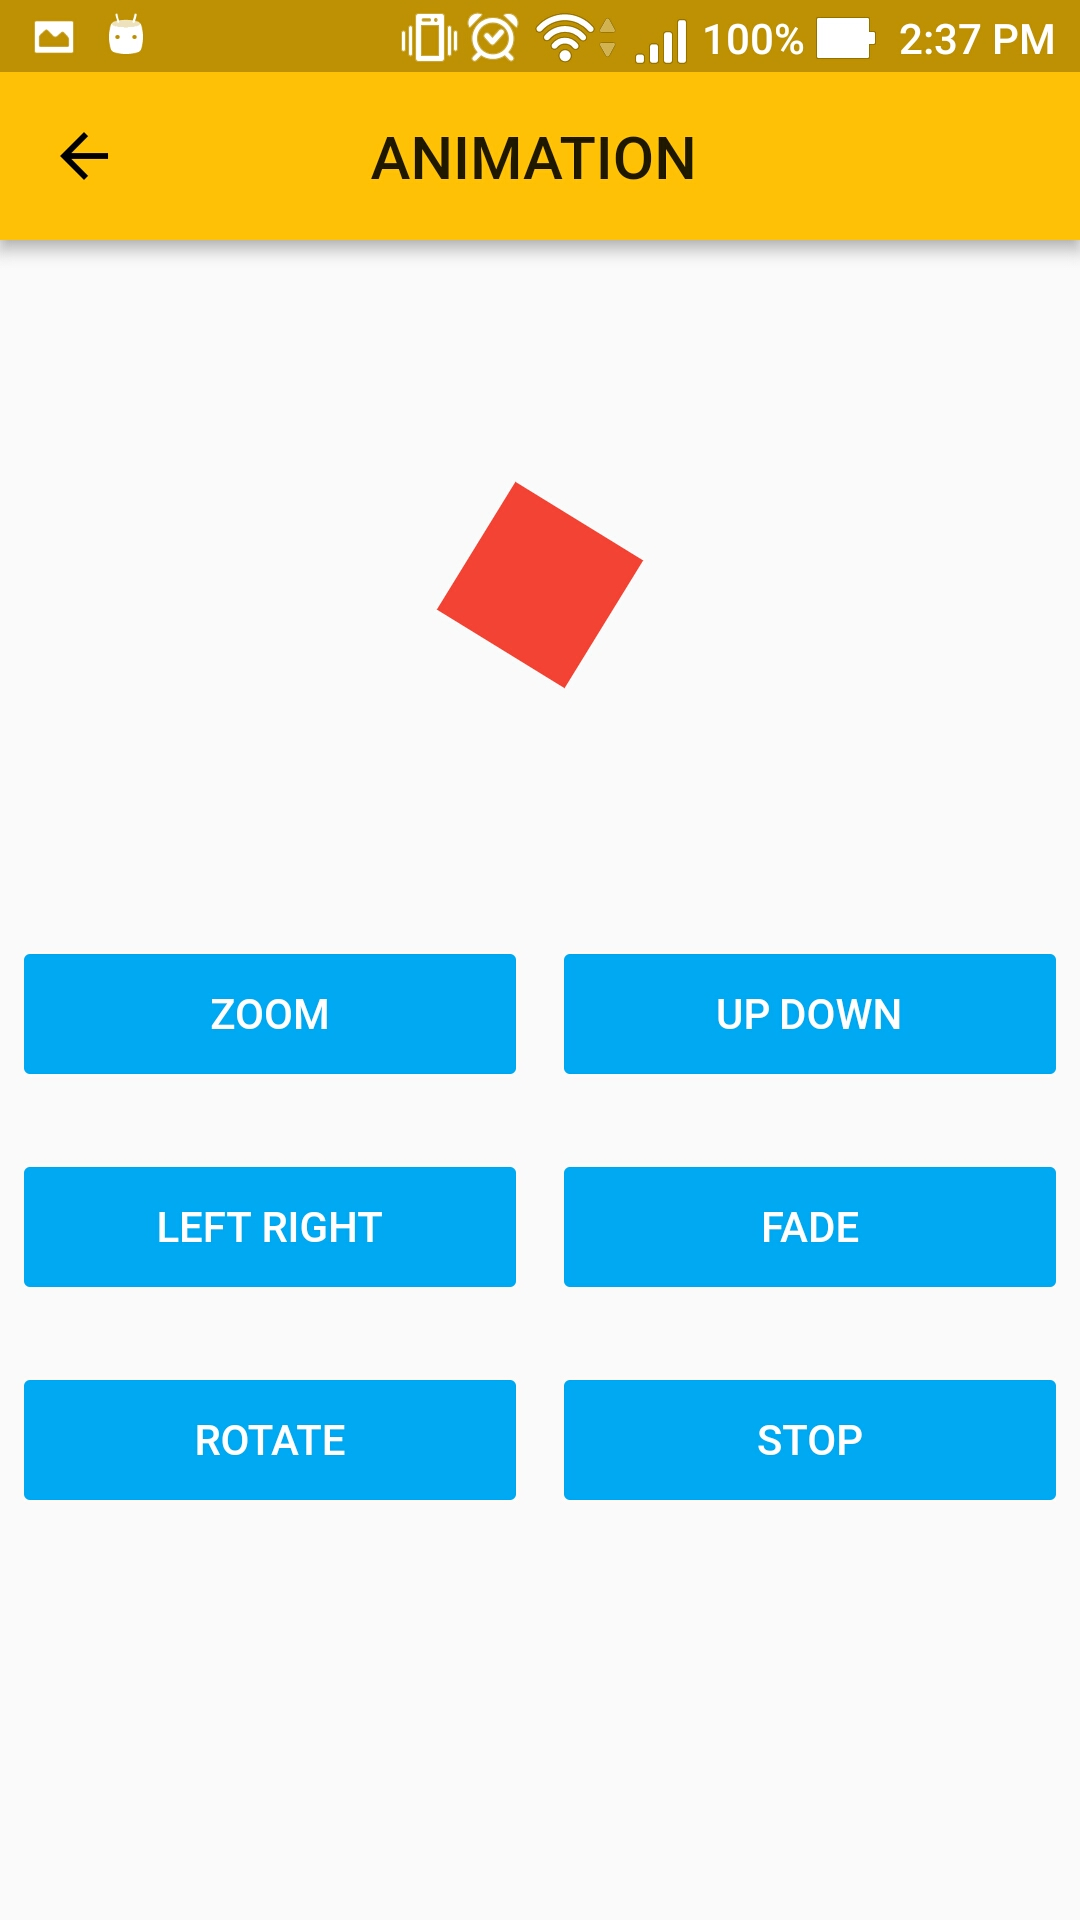
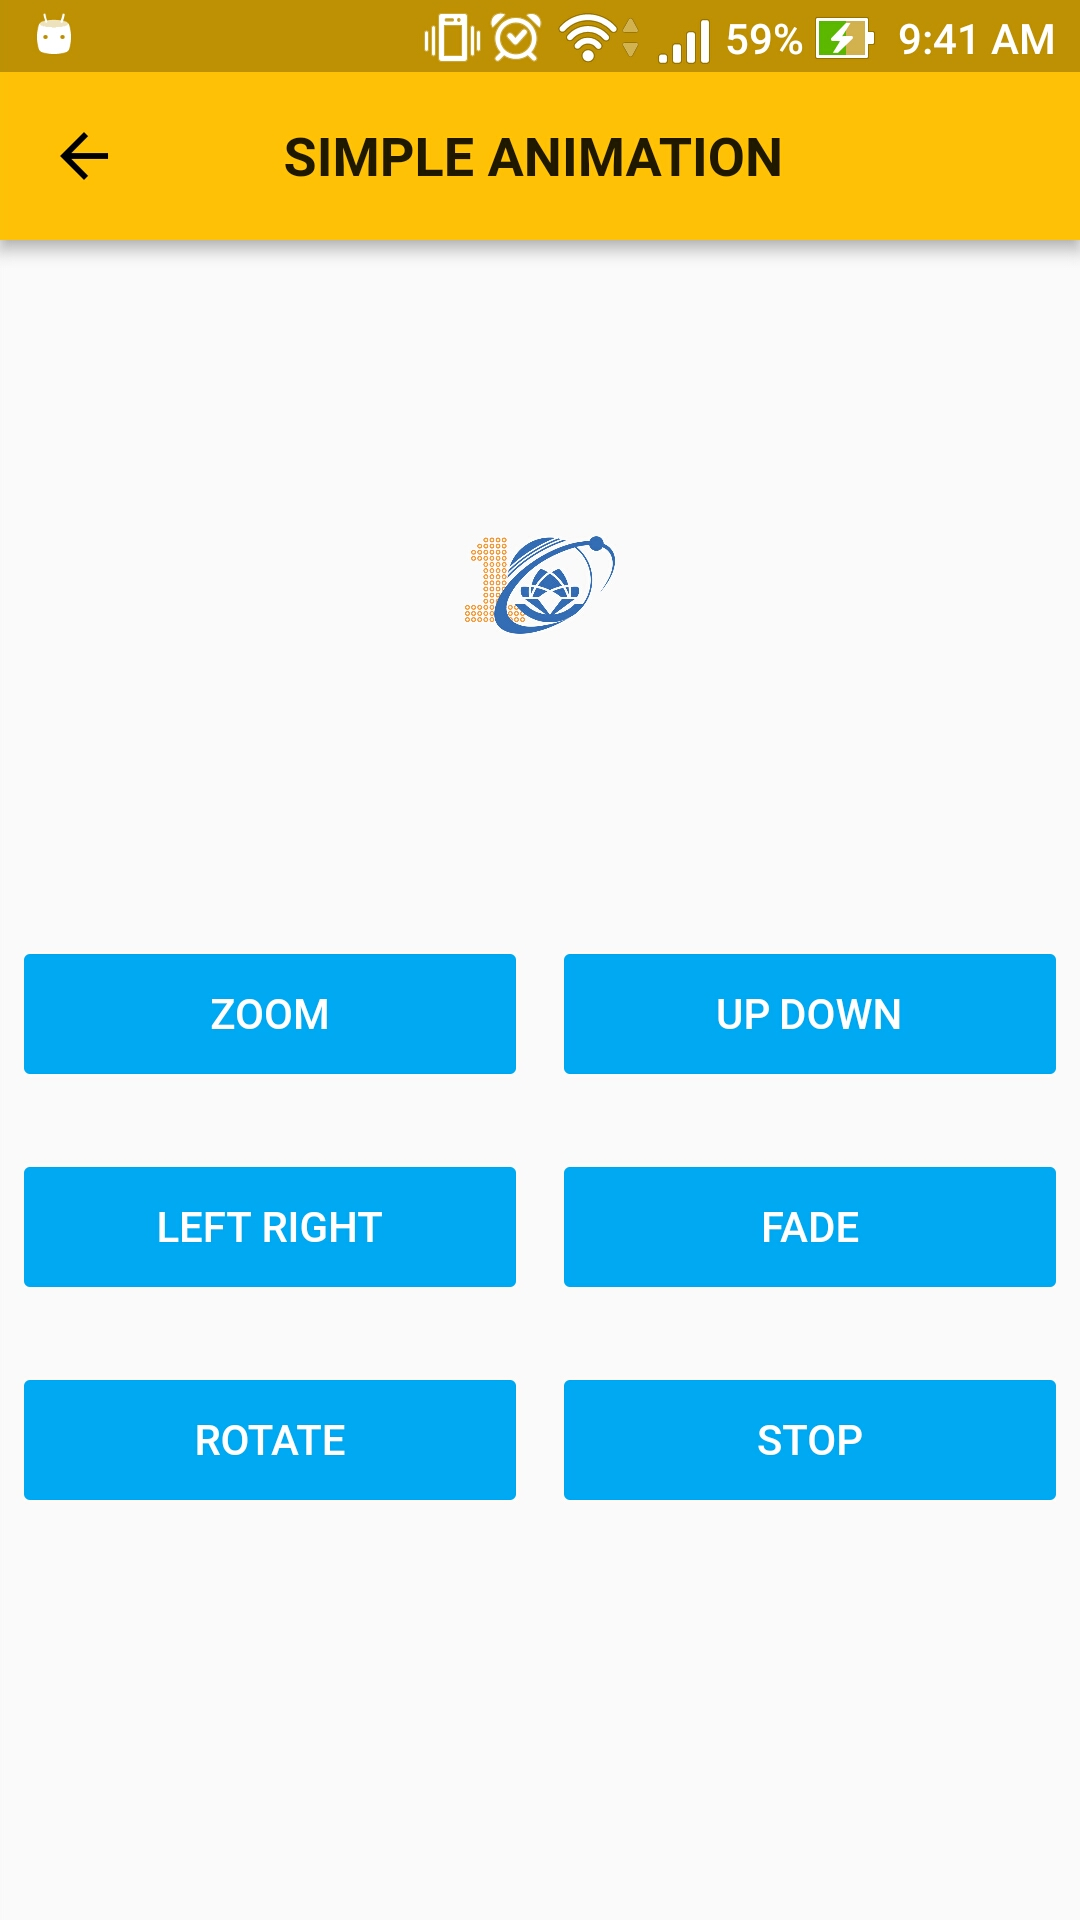
update

diff --git a/lib/main.dart b/lib/main.dart
@@ -7,7 +7,7 @@ import 'package:flutter/material.dart';
 import 'detail_info.dart';
 import 'english_word_list.dart';
 import 'chat.dart';
-import 'animation.dart';
+import 'simple_animation.dart';
 
 void main() => runApp(new MainApp());
 
@@ -37,15 +37,15 @@ class MainScreen extends StatelessWidget {
       child: new Center(
         child: new Column(
           children: <Widget>[
-            _buildButton(context, 'Detail info screen', new DetailInfo()),
+            _buildButton(context, 'Restaurant animation screen', new RestaurantAnimation()),
+            _buildButton(context, 'Simple animation screen', new SimpleAnimationScreen()),
             _buildButton(context, 'Edit profile screen', new EditProfile()),
-            _buildButton(context, 'Fetch api screen', new FetchApi()),
-            _buildButton(context, 'English word list screen', new EnglishWordList()),
-            _buildButton(context, 'Animation screen', new AnimationScreen()),
-            _buildButton(context, 'Chat screen', new Chat()),
             _buildButton(context, 'Music player screen', new MusicPlayer()),
             _buildButton(context, 'Medium clap screen', new MediumClap()),
-            _buildButton(context, 'Restaurant animation screen', new RestaurantAnimation())
+            _buildButton(context, 'Fetch api screen', new FetchApi()),
+            _buildButton(context, 'Detail info screen', new DetailInfo()),
+            _buildButton(context, 'English word list screen', new EnglishWordList()),
+            _buildButton(context, 'Chat screen', new Chat()),
           ],
         ),
       ),

diff --git a/lib/simple_animation.dart b/lib/simple_animation.dart
@@ -1,13 +1,13 @@
 import 'package:flutter/animation.dart';
 import 'package:flutter/material.dart';
 
-class AnimationScreen extends StatelessWidget {
+class SimpleAnimationScreen extends StatelessWidget {
   @override
   Widget build(BuildContext context) {
     return new Scaffold(
       appBar: new AppBar(
           title: new Text(
-            'ANIMATION',
+            'SIMPLE ANIMATION',
             style: new TextStyle(fontSize: 18.0, fontWeight: FontWeight.bold),
           ),
           centerTitle: true),
@@ -81,7 +81,6 @@ class _LogoAppState extends State<LogoApp> with SingleTickerProviderStateMixin {
         children: <Widget>[
           new Container(height: 15.0),
           new Container(
-//            color: Colors.black,
             alignment: Alignment.center,
             width: 200.0,
             height: 200.0,
@@ -92,7 +91,9 @@ class _LogoAppState extends State<LogoApp> with SingleTickerProviderStateMixin {
                   child: new Opacity(
                     opacity: currentAnimation == 3 ? fadeAnim.value : 1.0,
                     child: new Container(
-                        color: Colors.red,
+                        child: new Image.asset(
+                          'images/logo_uit.png',
+                        ),
                         width: currentAnimation == 0 ? sizeAnim.value : 50.0,
                         height: currentAnimation == 0 ? sizeAnim.value : 50.0,
                         margin: (currentAnimation == 1

diff --git a/README.md b/README.md
@@ -3,24 +3,24 @@
 ## App include:
 
 * Restaurant Animation Screen - Make multiple animations work together.
-* Detail Info Screen - An simple UI with image, icon, text...
+* Simple Animation Screen - Some simple animation.
 * Edit Profile Screen - A simple form to fill user info.
-* Fetch Api Screen - Load list data from StackOverflow.
-* English Word List Screen - How to render an list with interactive.
-* Animation Screen - Some simple animation.
-* Chat Screen - Training to process with list.
-* Music Player Screen - Get and play music from the internet
+* Music Player Screen - Get and play music from the internet.
 * Medium Clap Screen - Clap animation like Medium.
-* And more screen will be update...
+* Fetch Api Screen - Load list data from StackOverflow.
+* Detail Info Screen - An simple UI with image, icon, text...
+* English Word List Screen - How to render an list with interactive.
+* Chat Screen - Training to process with list.
+* And more screen will be update in future...
 
-## Screenshot:
+## Screenshots:
 
 <img src="https://raw.githubusercontent.com/duytq94/demo-flutter/master/ScreenShots/RestaurantAnimation.gif" height="30%" width="30%">
-<img src="https://raw.githubusercontent.com/duytq94/demo-flutter/master/ScreenShots/DetailInfo.jpg" height="30%" width="30%">
-<img src="https://raw.githubusercontent.com/duytq94/demo-flutter/master/ScreenShots/EditProfile.jpg" height="30%" width="30%">
-<img src="https://raw.githubusercontent.com/duytq94/demo-flutter/master/ScreenShots/FetchApi.jpg" height="30%" width="30%">
-<img src="https://raw.githubusercontent.com/duytq94/demo-flutter/master/ScreenShots/EnglishWord.jpg" height="30%" width="30%">
 <img src="https://raw.githubusercontent.com/duytq94/demo-flutter/master/ScreenShots/Animation.jpg" height="30%" width="30%">
-<img src="https://raw.githubusercontent.com/duytq94/demo-flutter/master/ScreenShots/Chat.jpg" height="30%" width="30%">
+<img src="https://raw.githubusercontent.com/duytq94/demo-flutter/master/ScreenShots/EditProfile.jpg" height="30%" width="30%">
 <img src="https://raw.githubusercontent.com/duytq94/demo-flutter/master/ScreenShots/MusicPlayer.jpg" height="30%" width="30%">
 <img src="https://raw.githubusercontent.com/duytq94/demo-flutter/master/ScreenShots/MediumClap.gif" height="30%" width="30%">
+<img src="https://raw.githubusercontent.com/duytq94/demo-flutter/master/ScreenShots/FetchApi.jpg" height="30%" width="30%">
+<img src="https://raw.githubusercontent.com/duytq94/demo-flutter/master/ScreenShots/DetailInfo.jpg" height="30%" width="30%">
+<img src="https://raw.githubusercontent.com/duytq94/demo-flutter/master/ScreenShots/EnglishWord.jpg" height="30%" width="30%">
+<img src="https://raw.githubusercontent.com/duytq94/demo-flutter/master/ScreenShots/Chat.jpg" height="30%" width="30%">
